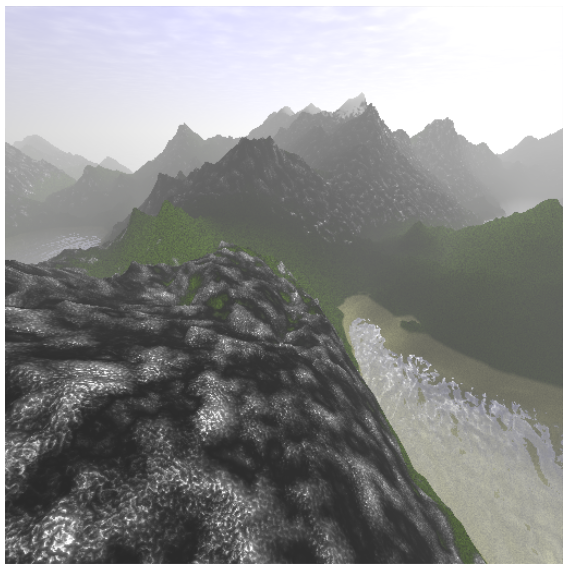
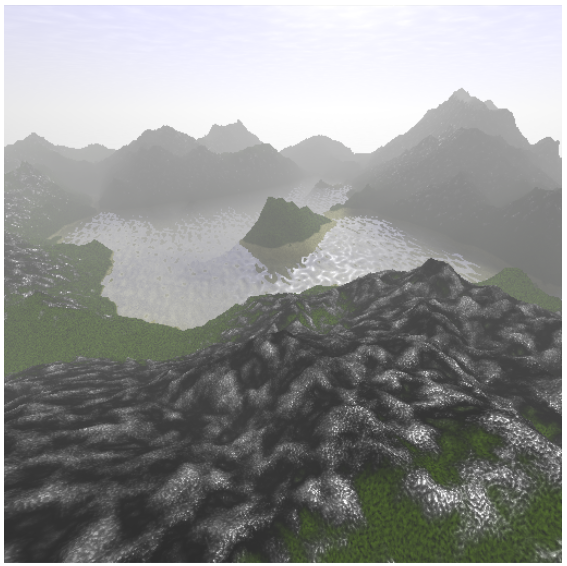
Various optimizations.

diff --git a/webgl/landscape.html b/webgl/landscape.html
@@ -45,10 +45,8 @@ const float ONE = 1./256.;
 
 /* This function is based on the work of John Davis and Stefan Gustavson. */
 vec3 simplex2d(in vec2 P) {
-    float s = dot(P, F2);
-    vec2 Pi = floor(P + s);
-    float t = dot(Pi, G2);
-    vec2 Pf0 = P - Pi + t;
+    vec2 Pi = floor(P + dot(P, F2));
+    vec2 Pf0 = P - Pi + dot(Pi, G2);
 
     // For the 2D case, the simplex shape is an equilateral triangle.
     // Find out whether we are above or below the x=y diagonal to
@@ -65,81 +63,40 @@ vec3 simplex2d(in vec2 P) {
     vec2 grad1 = texture2D(uNoise, (Pi + o1) * ONE).rg * 2.0 - 1.0;
     vec2 grad2 = grad02.ba;
 
-    // Noise contribution from simplex origin
-    float t0 = max(0.5 - dot(Pf0, Pf0), 0.);
-    float t02 = t0 * t0;
-    float t04 = t02 * t02;
-
-    // Noise contribution from middle corner
     vec2 Pf1 = Pf0 - o1 + G2;
-    float t1 = max(0.5 - dot(Pf1, Pf1), 0.);
-    float t12 = t1 * t1;
-    float t14 = t12 * t12;
-  
-    // Noise contribution from last corner
     vec2 Pf2 = Pf0 + 2.0 * G2 - 1.0;
-    float t2 = max(0.5 - dot(Pf2, Pf2), 0.);
-    float t22 = t2 * t2;
-    float t24 = t22 * t22;
+    vec3 t = max(0.5 - vec3(dot(Pf0, Pf0), dot(Pf1, Pf1), dot(Pf2, Pf2)), 0.);
+    vec3 t2 = t * t;
+    vec3 t4 = t2 * t2;
 
-    /* Common factors in derivates and value. */
-    float t0d = 8. * t0 * t02 * dot(grad0, Pf0);
-    float t1d = 8. * t1 * t12 * dot(grad1, Pf1);
-    float t2d = 8. * t2 * t22 * dot(grad2, Pf2);
-
-    grad0 *= t04;
-    grad1 *= t14;
-    grad2 *= t24;
+    vec3 td = t * t2 * vec3(dot(grad0, Pf0), dot(grad1, Pf1), dot(grad2, Pf2));
+    float dx = 8. * dot(td, vec3(Pf0.x, Pf1.x, Pf2.x)) - dot(t4, vec3(grad0.x, grad1.x, grad2.x));
+    float dy = 8. * dot(td, vec3(Pf0.y, Pf1.y, Pf2.y)) - dot(t4, vec3(grad0.y, grad1.y, grad2.y));
 
     // Sum up and scale the result to cover the range [-.5,.5]
-    return vec3(
-	  (t0d * t0 + t1d * t1 + t2d * t2) * .125,
-
-	  t0d * Pf0.x - grad0.x
-	+ t1d * Pf1.x - grad1.x
-	+ t2d * Pf2.x - grad2.x,
-
-	  t0d * Pf0.y - grad0.y
-	+ t1d * Pf1.y - grad1.y
-	+ t2d * Pf2.y - grad2.y
-    ) * 70.;
+    return vec3(dot(td, t), dx, dy) * 70.;
 }
 
-/* Combine simplex noise to given octave. Output: 0 .. 1 */
-float fbmPerlin2d(in vec2 pos, in int maxLevel) {
+/* Combine simplex noise to given octave.
+ * Output: vec4(normalx, normaly, normalz, value) */
+vec4 fbmPerlin2d(in vec2 pos, in int maxLevel) {
     pos *= .25;
     float w = 0.5;
-    float o = w;
+    vec3 o = vec3(w, 0., 0);
     for (int i = 0; i < MAPITERATIONS; i ++) {
-        o += w * simplex2d(pos).x;
+        o += w * simplex2d(pos);
         if (i >= maxLevel) {
             break;
         }
         w *= .5;
         pos *= 2.;
     }
-    return o;
+    
+    return vec4(normalize(cross(vec3(-1., 0., o.y), vec3(0., -1., o.z))), o.x);
 }
 
-/* Combine simplex noise to given octave. */
-vec3 fbmPerlin2dDerivate(in vec2 pos, in int maxLevel) {
-    pos *= .25;
-    float w = 0.5;
-    vec2 o = vec2(0., 0.);
-    for (int i = 0; i < MAPITERATIONS; i ++) {
-	vec3 n = simplex2d(pos);
-	o += n.yz * w;
-        if (i >= maxLevel) {
-            break;
-        }
-        w *= .5;
-        pos *= 2.;
-    }
-
-    return normalize(cross(vec3(-1., 0., o.x), vec3(0., -1., o.y)));
-}
-
-/* Combine simplex noise to given octave with enhancement by Inigo Quilez. */
+/* Combine simplex noise to given octave with enhancement by Inigo Quilez.
+ * Output: value. */
 float fbmQuilez2d(in vec2 pos, in int maxLevel) {
     pos *= .25;
     float w = 0.5;
@@ -159,8 +116,9 @@ float fbmQuilez2d(in vec2 pos, in int maxLevel) {
     return o * 2.;
 }
 
-/* Combine simplex noise to given octave with enhancement by Inigo Quilez. */
-vec3 fbmQuilez2dDerivate(in vec2 pos, in int maxLevel) {
+/* Combine simplex noise to given octave with enhancement by Inigo Quilez.
+ * Output: normal. */
+vec3 fbmQuilez2dNormal(in vec2 pos, in int maxLevel) {
     pos *= .25;
     float w = 0.5;
     vec2 o = vec2(0., 0.);
@@ -193,6 +151,8 @@ vec3 fbmQuilez2dDerivate(in vec2 pos, in int maxLevel) {
  * The stop condition also gets progressively coarser as
  * the ray gains distance to viewer. This should naturally "antialias"
  * the scenery at distance.
+ *
+ * Output: LOD value for terrain calculation.
  */
 int intersectTerrain(inout vec3 pos, in vec3 dir, out float t) {
     /* Dynamic LOD during marching:
@@ -214,13 +174,17 @@ int intersectTerrain(inout vec3 pos, in vec3 dir, out float t) {
 	float absHeight = abs(height);
         maxLevel = int(LOD / (absHeight * t));
         
-        /* Are we close enough to terrain? */
-        if (absHeight < STOPCONDITION * t) {
-	    return maxLevel;
-        }
+	if (pos.z < WATER_LEVEL) {
+	    return 1;
+	}
 
         if (t > FOG) {
             break;
+        }
+
+        /* Are we close enough to terrain? */
+        if (absHeight < STOPCONDITION * t) {
+	    return maxLevel;
         }
     }
 
@@ -228,37 +192,37 @@ int intersectTerrain(inout vec3 pos, in vec3 dir, out float t) {
     return 0;
 }
 
+/* Evaluate rules to find color of terrain point.
+ * Output: RGB. */
 vec3 getTerrainColor(in vec3 pos, in vec3 dir, in int maxLevel) {
     /* Get surface properties. */
-    vec3 normal = fbmQuilez2dDerivate(pos.xy, maxLevel);
-    float noise = fbmPerlin2d(pos.xy * 64., 4);
-    vec3 noiseDerivate = fbmPerlin2dDerivate(pos.xy * 64., 4);
-    float highfreqNoise = fbmPerlin2d(pos.xy * 1024., 3);
-    vec3 highfreqNoiseDerivate = fbmPerlin2dDerivate(pos.xy * 1024., 3);
+    vec3 normal = fbmQuilez2dNormal(pos.xy, maxLevel);
+    vec4 noise = fbmPerlin2d(pos.xy * 64., 4);
+    vec4 highfreqNoise = fbmPerlin2d(pos.xy * 1024., 3);
 
     /* Sand */
-    vec4 terrain = vec4(1., 1., .5, 0.) * (.5 + .5 * highfreqNoise) * pos.z;
+    vec4 terrain = vec4(1., 1., .5, 0.) * (.5 + .5 * highfreqNoise.w) * pos.z;
     vec3 terrainNormal = vec3(0., 0., 0.);
 
     /* Grass -- if terrain is not flat, the beach is shorter */
     float beachOrGrass = smoothstep(.75, .76, pos.z - normal.z * .1);
-    vec4 grass = vec4(0.15, 0.3, 0.0, 0.) * highfreqNoise;
+    vec4 grass = vec4(0.15, 0.3, 0.0, 0.) * highfreqNoise.w;
     terrain = mix(terrain, grass, beachOrGrass);
 
     /* Rock: two layers of texturing and normals:
      * first layer is coarse world-terrain noise
      * added to it is the same high-frequency noise
      * used for sand and grass */
-    float greenOrBarren = smoothstep(.5, .6, pos.z - normal.z + noise * .2);
-    float rockStripe = (noise - 0.3) * 1.5;
+    float greenOrBarren = smoothstep(.5, .6, pos.z - normal.z + noise.w * .2);
+    float rockStripe = (noise.w - 0.3) * 1.5;
     rockStripe = rockStripe * rockStripe;
-    vec4 rock = vec4(.3, .3, .3, .1) + highfreqNoise * highfreqNoise * highfreqNoise;
+    vec4 rock = vec4(.3, .3, .3, .1) + highfreqNoise.w * highfreqNoise.w * highfreqNoise.w;
     terrain = mix(terrain, rock * rockStripe, greenOrBarren);
-    vec3 rockNormal = noiseDerivate + highfreqNoiseDerivate;
+    vec3 rockNormal = noise.xyz + highfreqNoise.xyz;
     terrainNormal = mix(terrainNormal, rockNormal, greenOrBarren);
 
     /* Snow -- height increased if terrain is not flat. */
-    float barrenOrSnow = smoothstep(2.5, 2.6, pos.z + normal.z + noise * .2);
+    float barrenOrSnow = smoothstep(2.5, 2.6, pos.z + normal.z + noise.w * .2);
     terrain = mix(terrain, vec4(1.4, 1.4, 1.4, .1), barrenOrSnow);
     terrainNormal = mix(terrainNormal, vec3(0., 0., 0.), barrenOrSnow);
    
@@ -273,18 +237,22 @@ vec3 getTerrainColor(in vec3 pos, in vec3 dir, in int maxLevel) {
 
 }
 
-/* Render sky. */
+/* Render sky.
+ * Output: RGB.
+ */
 vec3 getSkyColor(in vec3 pos, in vec3 dir) {
     float sunAngle = max(dot(dir, SUN), 0.);
     float sunSpecular = pow(sunAngle, 40.);
     float skyBrightness = clamp(1. - dir.z, 0., 1.);
-    float clouds = fbmPerlin2d(pos.xy + dir.xy * (8. - pos.z) / dir.z, 3);
+    float clouds = fbmPerlin2d(pos.xy + dir.xy * (8. - pos.z) / dir.z, 3).w;
     clouds *= clouds;
     return mix(vec3(skyBrightness, skyBrightness, 1.) * .8, vec3(1., 1., 1.), clouds * dir.z) * (1. + sunAngle)
 	+ SUN_INTENSITY * sunSpecular;
 }
 
-/* Calculate water color based on reflection and refraction. */
+/* Calculate water color based on reflection and refraction.
+ * Output: RGB.
+ */
 vec3 getWaterColor(in vec3 pos, in vec3 dir) {
     /* Calculate water surface normal. */
     vec2 wave1 = texture2D(uWatermap, pos.xy * 1.7 + vec2(uTime *.07, 0.)).xy;
@@ -320,19 +288,15 @@ vec3 getWaterColor(in vec3 pos, in vec3 dir) {
 
 /* Cross product. */
 vec3 cross(in vec3 a, in vec3 b) {
-    return vec3(
-        a.y * b.z - a.z * b.y,
-        a.z * b.x - a.x * b.z,
-        a.x * b.y - a.y * b.x
-    );
+    return a.yzx * b.zxy - a.zxy * b.yzx;
 }
 
 void main(void) {
     //gl_FragColor = texture2D(uWatermap, vPosition);
     //gl_FragColor = vec4(fbmPerlin2d(vPosition*4., 0) * vec3(1., 1., 1.), 1.);
-    //gl_FragColor = vec4(vec3(.5, .5, .5) + .5 * fbmPerlin2dDerivate(vPosition*4., 0), 1.);
+    //gl_FragColor = vec4(vec3(.5, .5, .5) + .5 * fbmPerlin2dNormal(vPosition*4., 0), 1.);
     //gl_FragColor = vec4(fbmQuilez2d(vPosition * 8., 8) * vec3(1., 1., 1.) * .5, 1.);
-    //gl_FragColor = vec4(vec3(.5, .5, .5) + .5 * fbmQuilez2dDerivate(vPosition * 8., 8) * .5, 1.);
+    //gl_FragColor = vec4(vec3(.5, .5, .5) + .5 * fbmQuilez2dNormal(vPosition * 8., 8) * .5, 1.);
     //return;
 
     /* Calculate position of camera. */
@@ -358,7 +322,7 @@ void main(void) {
     if (terrainPos.z < WATER_LEVEL) {
 	/* Backtrack to water surface. */
 	float backtrackLength = (WATER_LEVEL - terrainPos.z) / dir.z;
-	distance -= backtrackLength;
+	distance += backtrackLength;
 	vec3 waterPos = terrainPos + dir * backtrackLength;
 	terrain = getWaterColor(waterPos, dir);
     } else {
